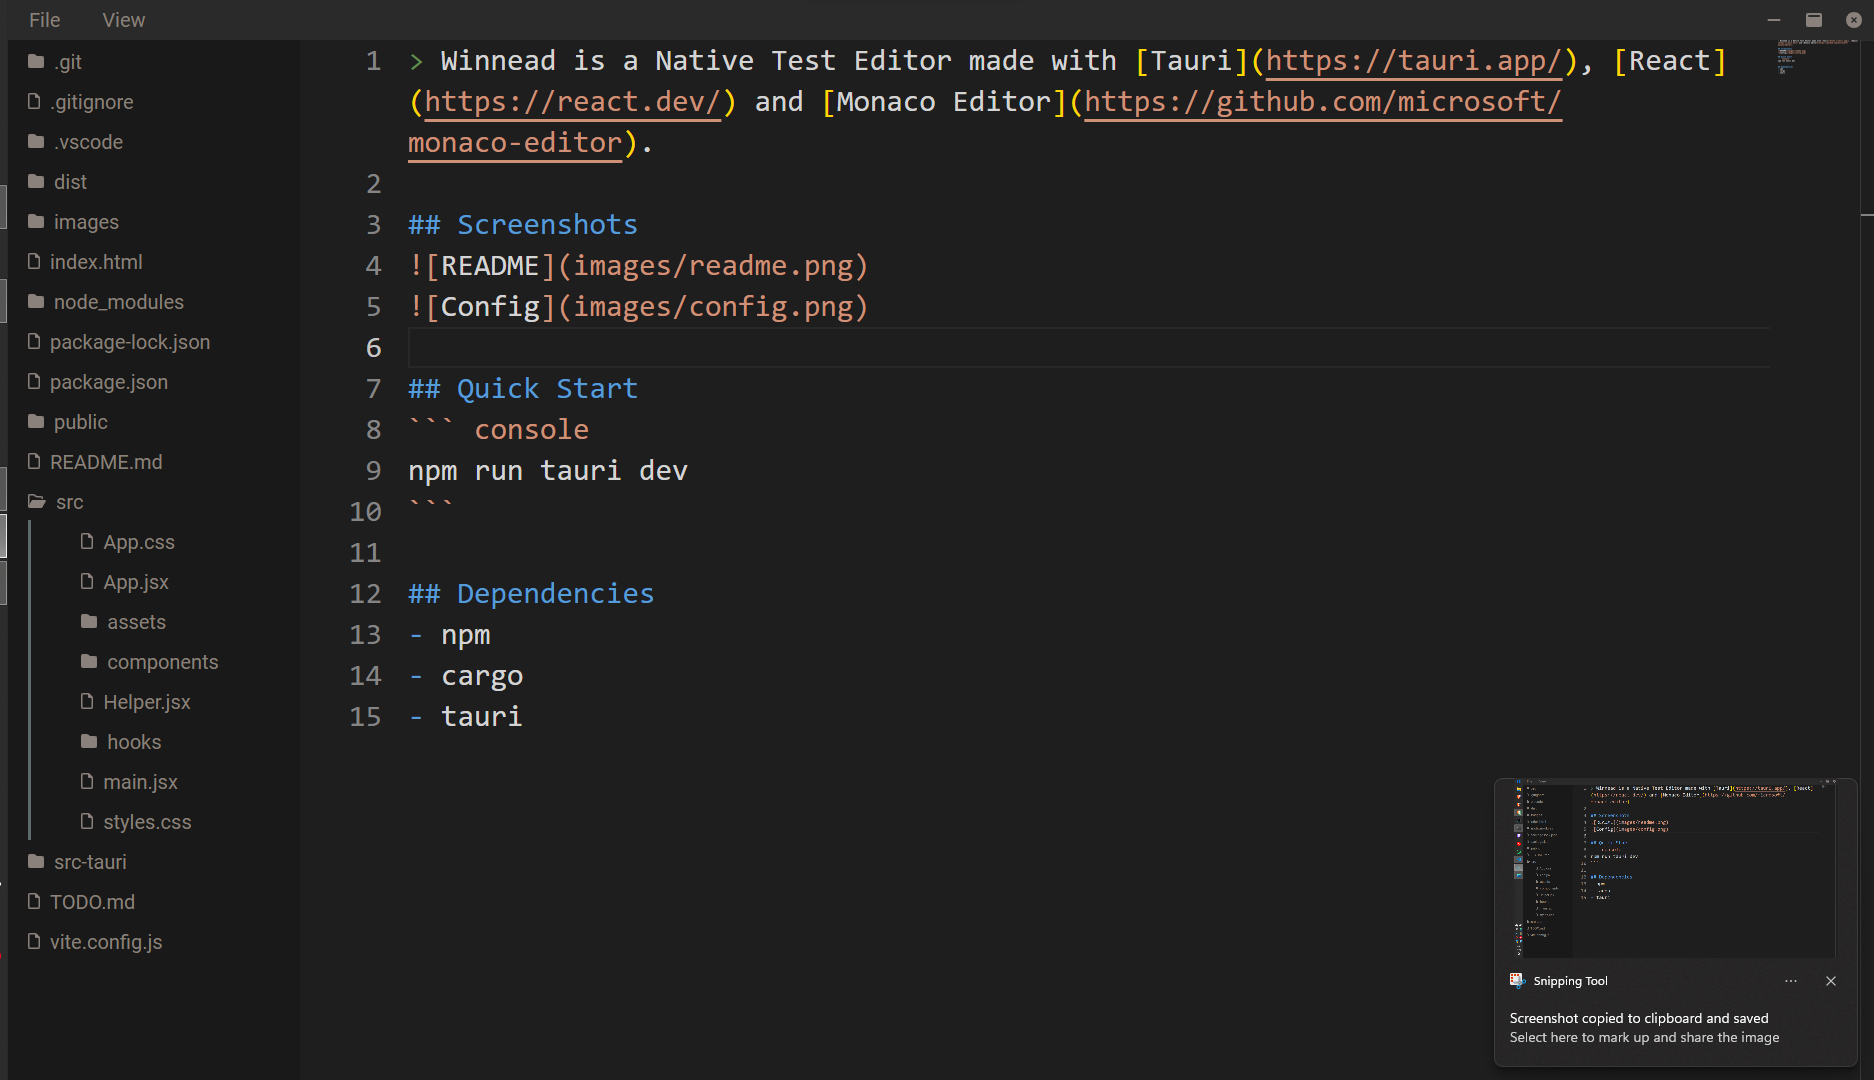
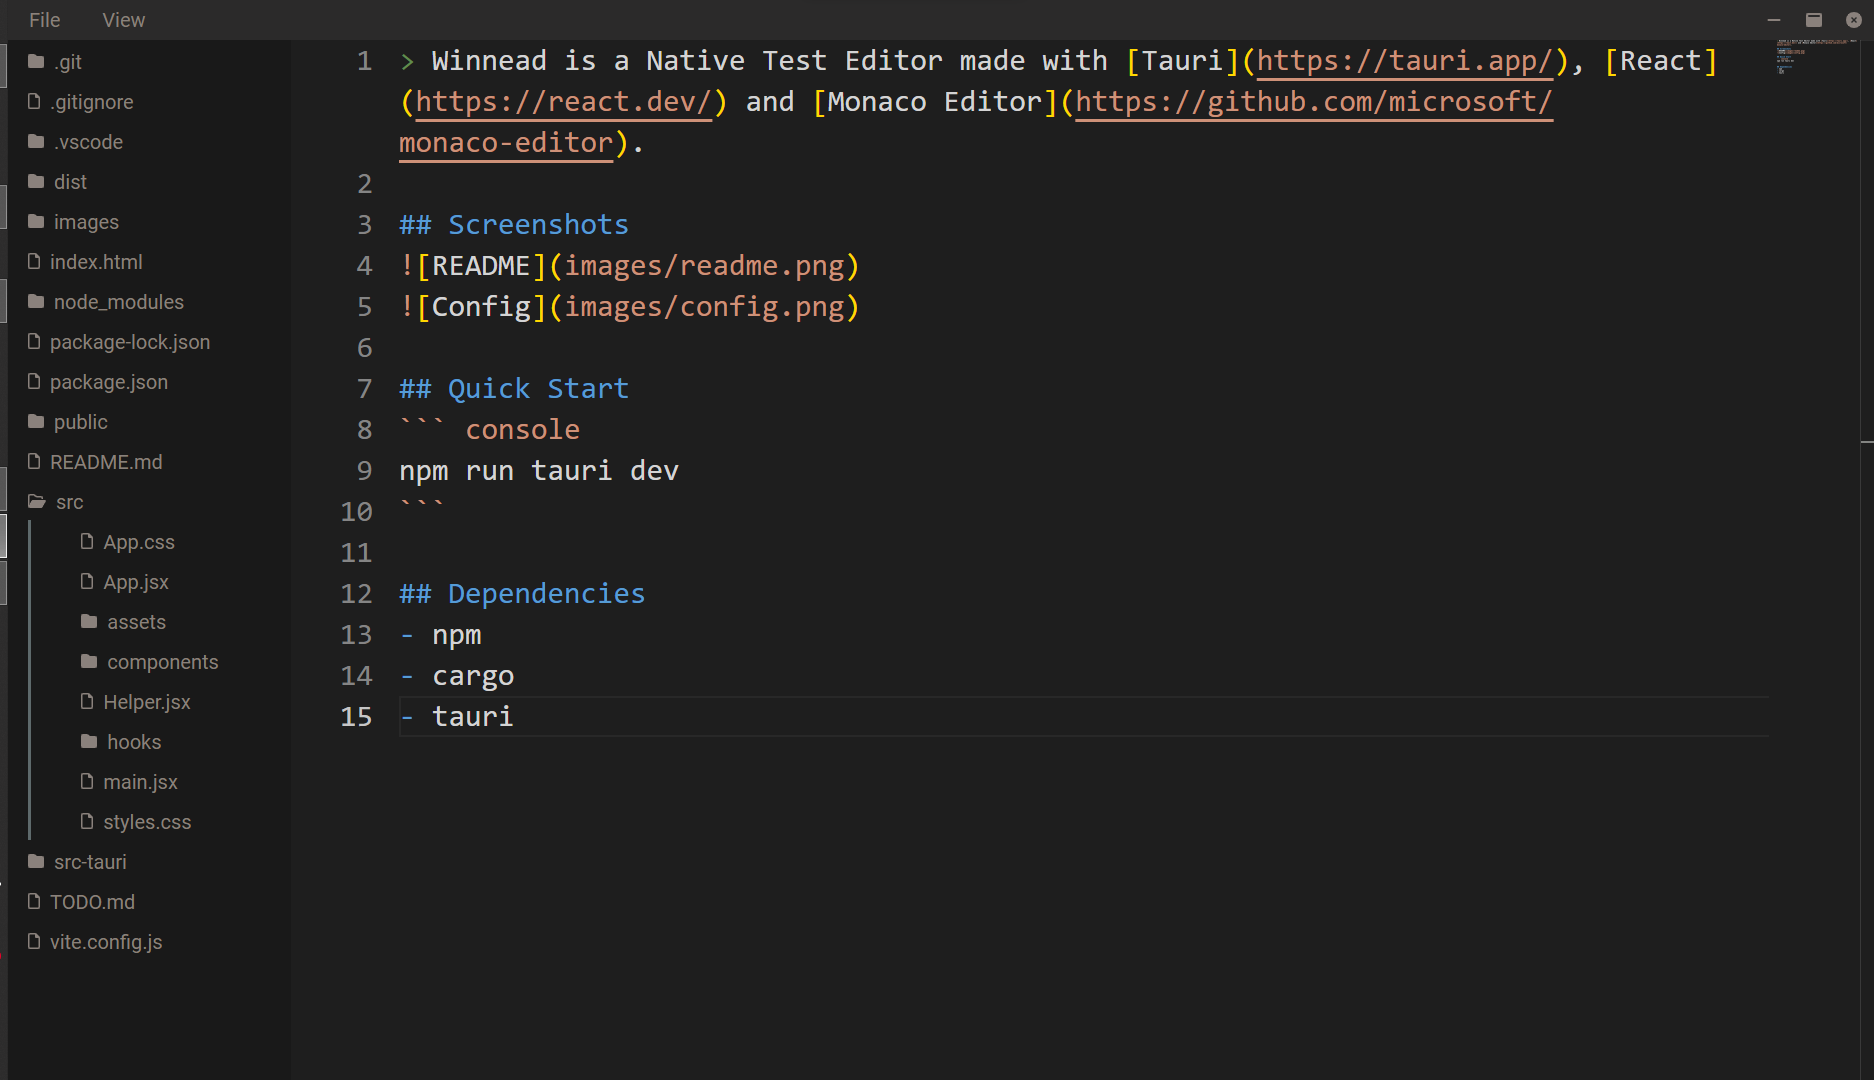
fixed readme

diff --git a/src/App.jsx b/src/App.jsx
@@ -247,7 +247,7 @@ function App() {
                     <div className="dropdown">
                         <button className="menu-item">View</button>
                         <div className="dropdown-content">
-                            <button className="menu-item" onclick={onToggleExplorer}>
+                            <button className="menu-item" onClick={onToggleExplorer}>
                                 Toggle Explorer&nbsp;&nbsp;<Keymap keymap={"Ctrl+B"} />
                             </button>
                             {/* <a href="/" className="menu-item">Runner</a>

diff --git a/README.md b/README.md
@@ -1,14 +1,8 @@
 > Winnead is a Native Test Editor made with [Tauri](https://tauri.app/), [React](https://react.dev/) and [Monaco Editor](https://github.com/microsoft/monaco-editor).
 
 ## Screenshots
-![New_File](images/new_file.png)
-> New File
-
 ![README](images/readme.png)
-> README
-
 ![Config](images/config.png)
-> Config
 
 ## Quick Start
 ``` console
